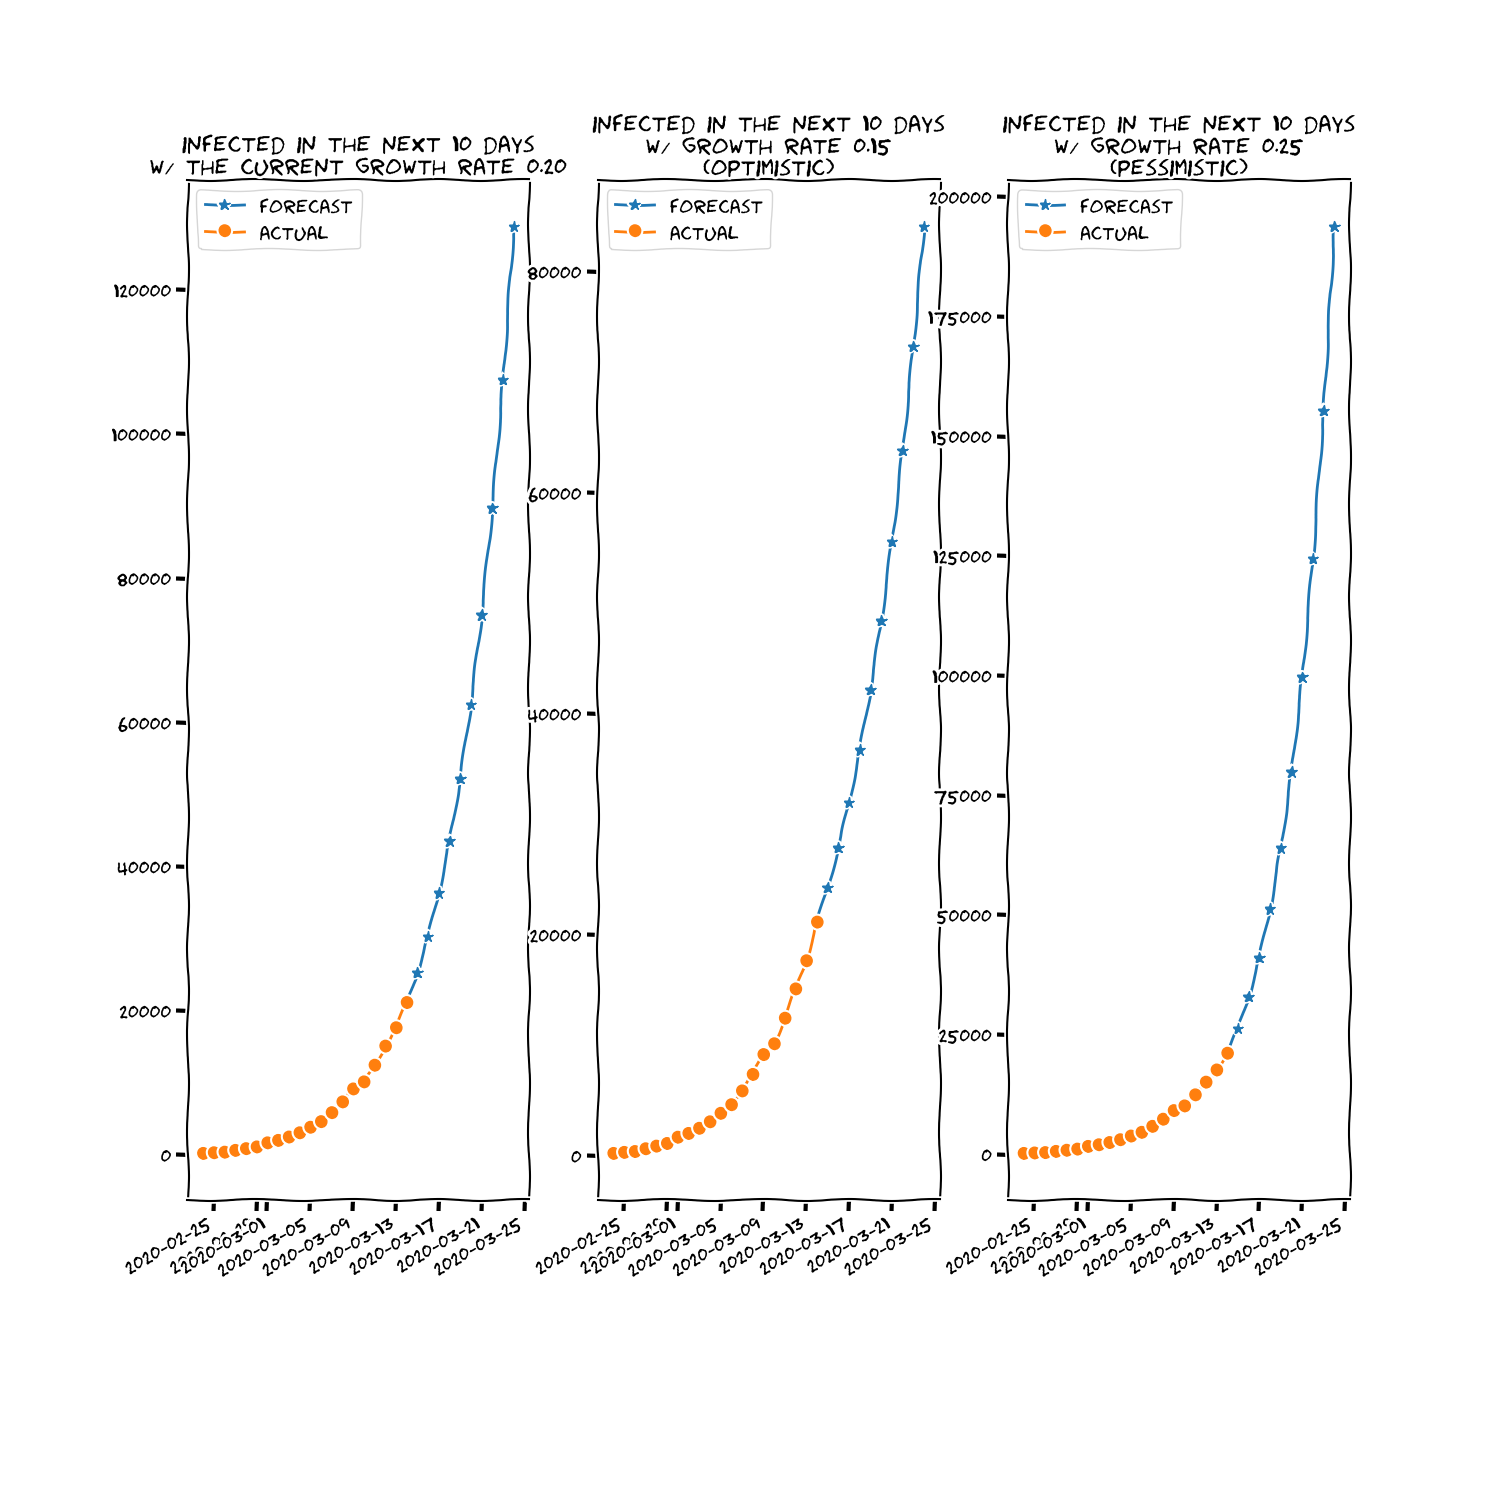
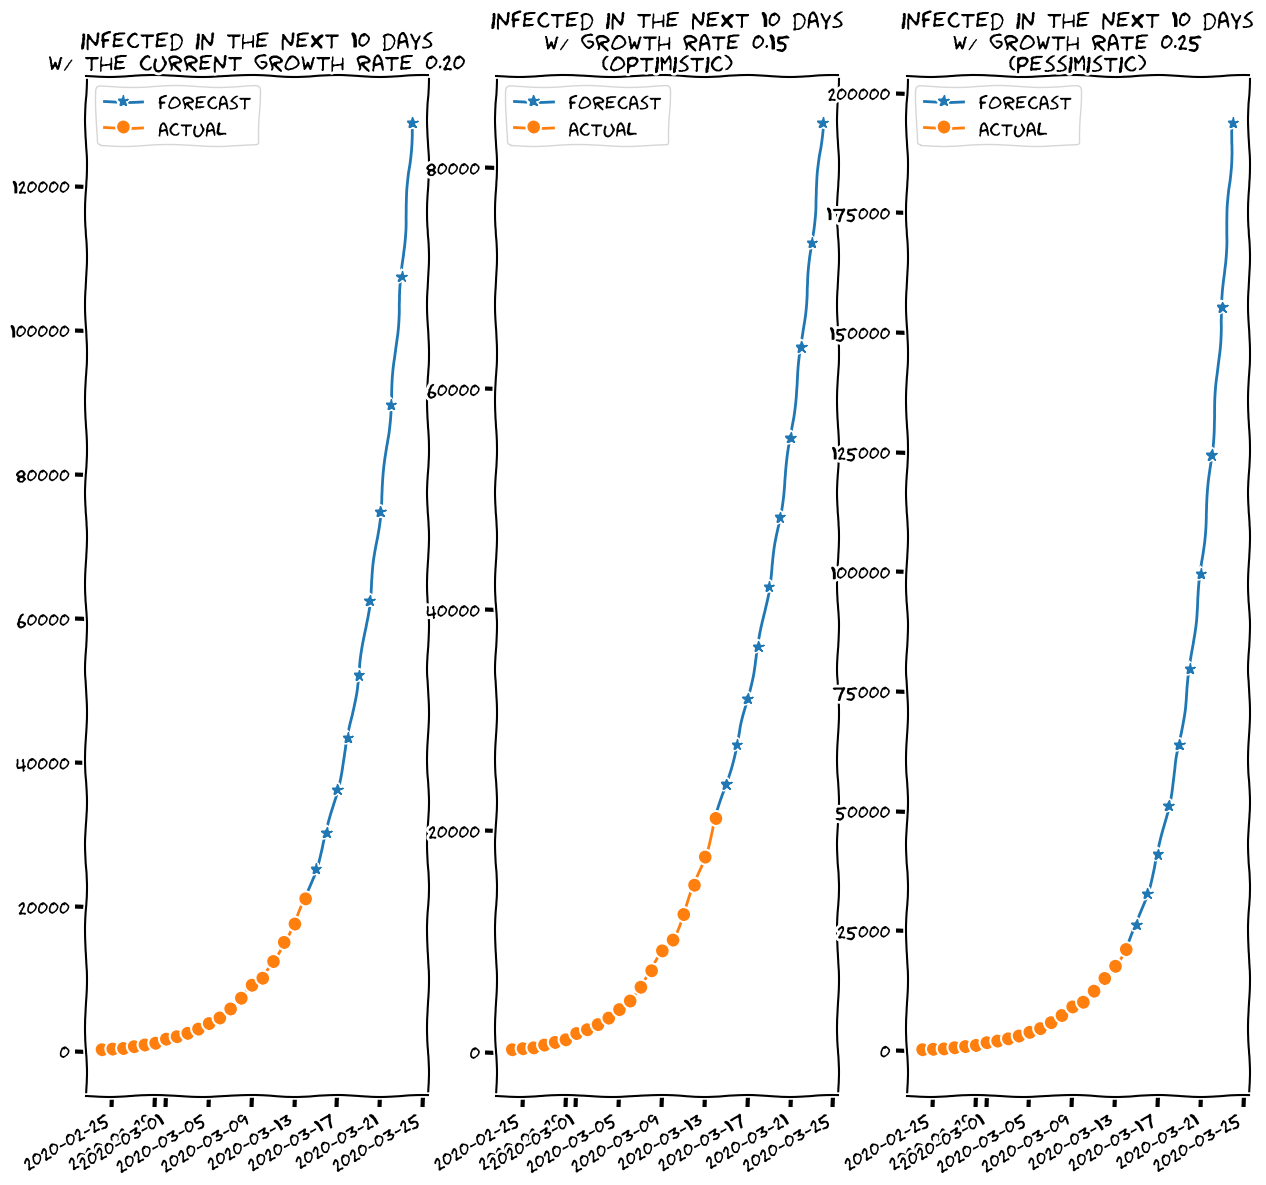
:cherries: produce report.md

diff --git a/main.py b/main.py
@@ -160,7 +160,7 @@ if __name__ == '__main__':
         ax6.plot(dates, tested, 'o-', label='total tested')
         ax6.legend(loc='upper left')
 
-        plt.savefig('report/stats.png')
+        plt.savefig('report/stats.png', bbox_inches='tight')
 
     with plt.xkcd():
         fig, (ax1, ax2, ax3) = plt.subplots(nrows=1, ncols=3, figsize=(15, 15))
@@ -188,7 +188,7 @@ if __name__ == '__main__':
                       f'pessimistic)')
         ax3.legend(loc='upper left')
 
-        plt.savefig('report/static_forecast.png')
+        plt.savefig('report/static_forecast.png', bbox_inches='tight')
 
     with plt.xkcd():
         fig, (ax1, ax2, ax3) = plt.subplots(nrows=1, ncols=3, figsize=(15, 15))
@@ -213,4 +213,4 @@ if __name__ == '__main__':
                       f'super optimistic)')
         ax3.legend(loc='upper left')
 
-        plt.savefig('report/dynamic_forecast.png')
+        plt.savefig('report/dynamic_forecast.png', bbox_inches='tight')
